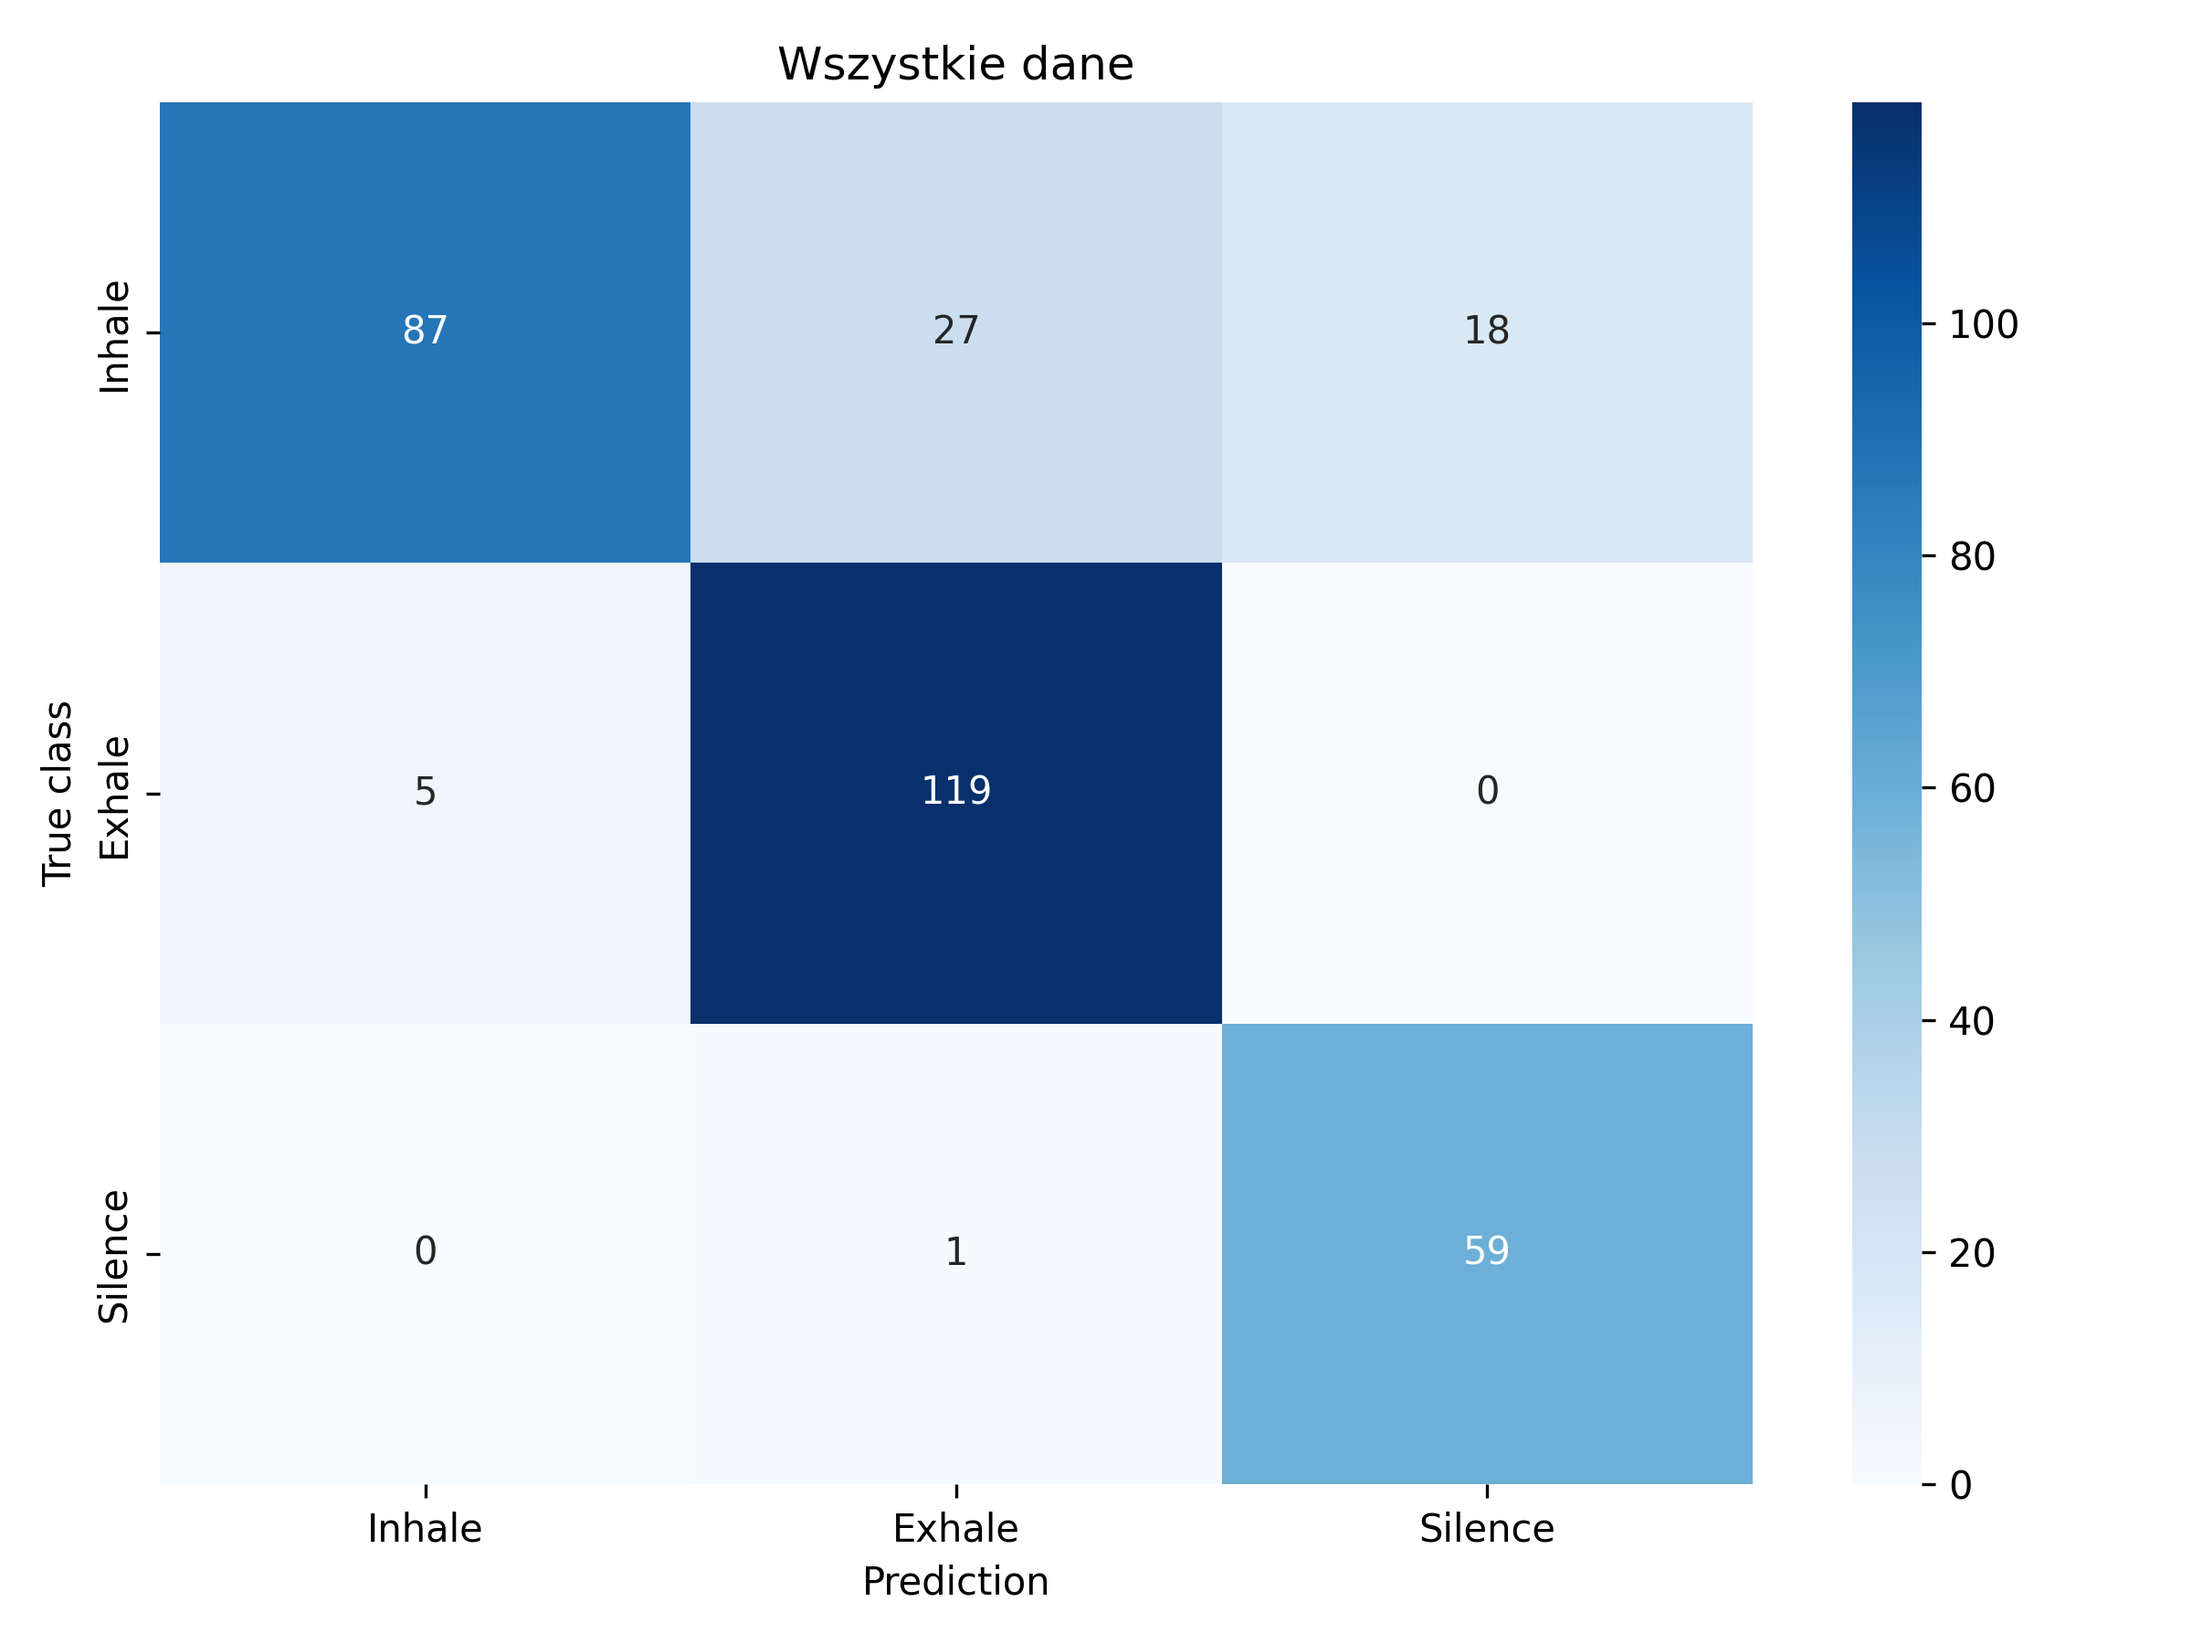
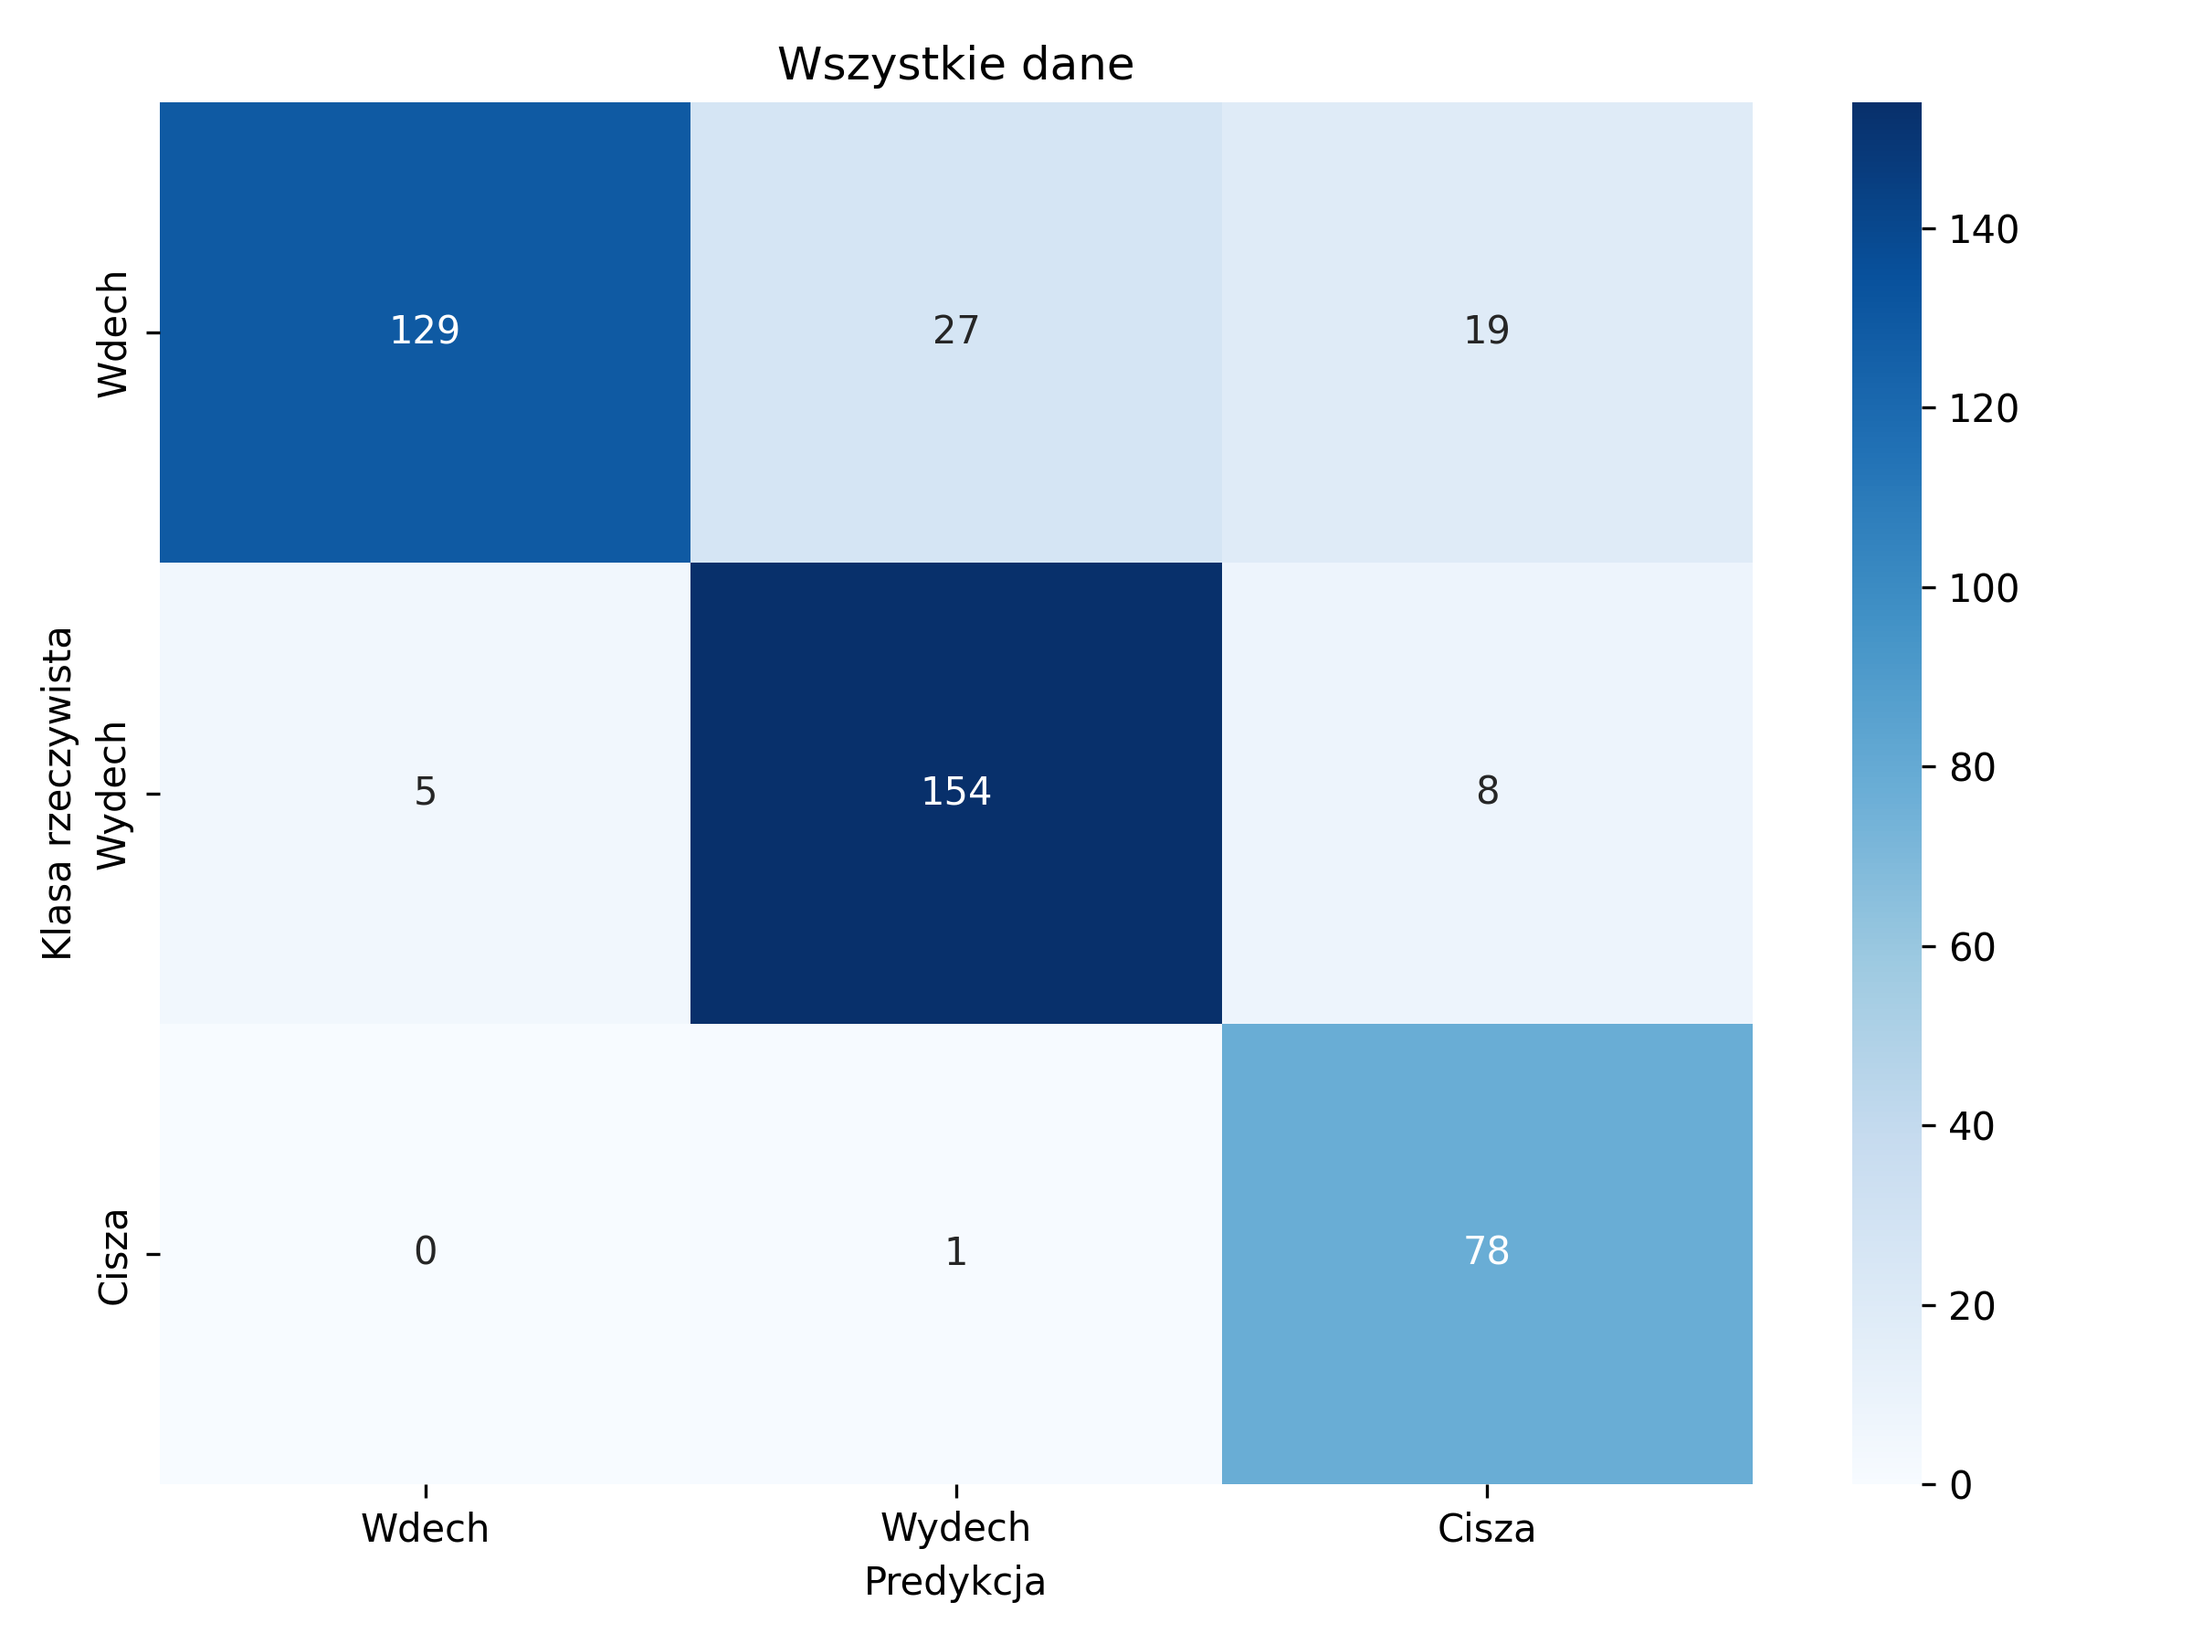
Plots and ocnfusion matrices

diff --git a/breathing_model/eval_data/statistics_plotter.py b/breathing_model/eval_data/statistics_plotter.py
@@ -1,121 +1,155 @@
 import numpy as np
 import matplotlib.pyplot as plt
 import seaborn as sns
-from sklearn.metrics import confusion_matrix
 import os
 
-
-# Define output folder for all confusion matrices
 output_folder = "confusion_matrices"
 os.makedirs(output_folder, exist_ok=True)
 
-
-# Function to create and display confusion matrix
 def plot_confusion_matrix(cm, title, labels):
     plt.figure(figsize=(8, 6))
     sns.heatmap(cm, annot=True, fmt='d', cmap='Blues', xticklabels=labels, yticklabels=labels)
     plt.title(title)
-    plt.ylabel('True class')
-    plt.xlabel('Prediction')
+    plt.ylabel('Klasa rzeczywista')
+    plt.xlabel('Predykcja')
     plt.tight_layout()
 
-    # Save to PNG in the specified folder
     filename = f"{title.replace(' ', '_').replace(',', '').lower()}.png"
     plt_filename = os.path.join(output_folder, filename)
-    plt.savefig(plt_filename, dpi=300)  # Higher resolution for better quality
-    print(f"Confusion matrix visualization saved to: {plt_filename}")
+    plt.savefig(plt_filename, dpi=300)
+    print(f"Zapisano macierz pomyłek: {plt_filename}")
 
     plt.show()
 
+def calculate_accuracy(cm):
+    return np.diag(cm).sum() / cm.sum()
 
-# Confusion matrix data (individual tests)
-# 1. Tomasz - good microphone
-y_true_tomasz_good = ['inhale'] * 15 + ['exhale'] * 15 + ['silence'] * 10
-y_pred_tomasz_good = ['inhale'] * 13 + ['exhale'] * 2 + ['exhale'] * 15 + ['silence'] * 10
-cm_tomasz_good = confusion_matrix(y_true_tomasz_good, y_pred_tomasz_good, labels=['inhale', 'exhale', 'silence'])
+labels = ['Wdech', 'Wydech', 'Cisza']
 
-# 2. Piotr - good microphone
-y_true_piotr_good = ['inhale'] * 10 + ['exhale'] * 9 + ['silence'] * 10
-y_pred_piotr_good = ['inhale'] * 10 + ['exhale'] * 9 + ['exhale'] * 1 + ['silence'] * 9
-cm_piotr_good = confusion_matrix(y_true_piotr_good, y_pred_piotr_good, labels=['inhale', 'exhale', 'silence'])
+cm_tomasz = np.array([
+    [45, 2, 1],  # Wdech: prawidłowo jako wdech, błędnie jako wydech, błędnie jako cisza
+    [0, 47, 0],    # Wydech: błędnie jako wdech, prawidłowo jako wydech, błędnie jako cisza
+    [0, 1, 23]     # Cisza: błędnie jako wdech, błędnie jako wydech, prawidłowo jako cisza
+])
 
-# 3. Tomasz - medium microphone
-y_true_tomasz_medium = ['inhale'] * (13 + 36 + 8) + ['exhale'] * (9 + 36 + 8) + ['silence'] * 15
-y_pred_tomasz_medium = ['inhale'] * (2 + 28 + 7) + ['exhale'] * (11 + 3) + ['silence'] * (0 + 5 + 1) + ['exhale'] * (
-            9 + 36 + 8) + ['silence'] * 15
-cm_tomasz_medium = confusion_matrix(y_true_tomasz_medium, y_pred_tomasz_medium, labels=['inhale', 'exhale', 'silence'])
+cm_piotr = np.array([
+    [29, 23, 5],
+    [0, 63, 0],
+    [0, 0, 31]
+])
 
-# 4. Piotr - medium microphone
-y_true_piotr_medium = ['inhale'] * (10 + 15 + 10) + ['exhale'] * (9 + 15 + 9) + ['silence'] * 15
-y_pred_piotr_medium = ['inhale'] * (7 + 15 + 2) + ['exhale'] * (3 + 0 + 8) + ['exhale'] * (9 + 15 + 9) + [
-    'silence'] * 15
-cm_piotr_medium = confusion_matrix(y_true_piotr_medium, y_pred_piotr_medium, labels=['inhale', 'exhale', 'silence'])
+cm_iwo = np.array([
+    [42, 0, 1],
+    [0, 29, 3],
+    [0, 0, 25]
+])
 
-# 5. Tomasz - poor microphone
-y_true_tomasz_bad = ['inhale'] * 15 + ['exhale'] * 14 + ['silence'] * 10
-y_pred_tomasz_bad = ['inhale'] * 3 + ['silence'] * 12 + ['inhale'] * 5 + ['exhale'] * 9 + ['silence'] * 10
-cm_tomasz_bad = confusion_matrix(y_true_tomasz_bad, y_pred_tomasz_bad, labels=['inhale', 'exhale', 'silence'])
+cm_good = np.array([
+    [23, 2, 0],
+    [0, 24, 0],
+    [0, 1, 11]
+])
 
-# Create aggregated data sets
-# All Tomasz data
-y_true_tomasz_all = y_true_tomasz_good + y_true_tomasz_medium + y_true_tomasz_bad
-y_pred_tomasz_all = y_pred_tomasz_good + y_pred_tomasz_medium + y_pred_tomasz_bad
-cm_tomasz_all = confusion_matrix(y_true_tomasz_all, y_pred_tomasz_all, labels=['inhale', 'exhale', 'silence'])
+cm_medium = np.array([
+    [103, 25, 7],
+    [0, 121, 8],
+    [0, 0, 63]
+])
 
-# All Piotr data
-y_true_piotr_all = y_true_piotr_good + y_true_piotr_medium
-y_pred_piotr_all = y_pred_piotr_good + y_pred_piotr_medium
-cm_piotr_all = confusion_matrix(y_true_piotr_all, y_pred_piotr_all, labels=['inhale', 'exhale', 'silence'])
+cm_bad = np.array([
+    [3, 0, 12],
+    [5, 9, 0],
+    [0, 0, 4]
+])
 
-# All good microphone data
-y_true_good_all = y_true_tomasz_good + y_true_piotr_good
-y_pred_good_all = y_pred_tomasz_good + y_pred_piotr_good
-cm_good_all = confusion_matrix(y_true_good_all, y_pred_good_all, labels=['inhale', 'exhale', 'silence'])
+cm_all = cm_bad + cm_medium + cm_good
 
-# All medium microphone data
-y_true_medium_all = y_true_tomasz_medium + y_true_piotr_medium
-y_pred_medium_all = y_pred_tomasz_medium + y_pred_piotr_medium
-cm_medium_all = confusion_matrix(y_true_medium_all, y_pred_medium_all, labels=['inhale', 'exhale', 'silence'])
+matrices = [
+    (cm_tomasz, "Wszystkie dane Tomasz"),
+    (cm_piotr, "Wszystkie dane Piotr"),
+    (cm_iwo, "Wszystkie dane Iwo"),
+    (cm_good, "Wszystkie dobre mikrofony"),
+    (cm_medium, "Wszystkie średnie mikrofony"),
+    (cm_bad, "Wszystkie słabe mikrofony"),
+    (cm_all, "Wszystkie dane")
+]
+print(f"Zapisywanie macierzy konfuzji do folderu: {output_folder}")
 
-# All bad microphone data (only Tomasz data available)
-cm_bad_all = cm_tomasz_bad  # Since we only have Tomasz's bad microphone data
+for cm, title in matrices:
+    plot_confusion_matrix(cm, title, labels)
+    accuracy = calculate_accuracy(cm)
+    print(f"Dokładność ({title}): {accuracy:.2%}")
 
-# All data combined
-y_true_all = y_true_tomasz_all + y_true_piotr_all
-y_pred_all = y_pred_tomasz_all + y_pred_piotr_all
-cm_all = confusion_matrix(y_true_all, y_pred_all, labels=['inhale', 'exhale', 'silence'])
 
-# Generating and saving confusion matrices
-labels = ['Inhale', 'Exhale', 'Silence']
 
-print(f"Saving all confusion matrices to folder: {output_folder}")
+cykle_model_tomasz = 24 + 15 + 8
+cykle_tomasz = 24 + 15 + 8
+cykle_model_piotr = 27 + 35 + 13
+cykle_piotr = 17 + 36 + 9
+cykle_model_iwo = 6 + 11 + 6 + 5 + 9
+cykle_iwo = 6 + 12 + 7 + 8 + 9
+cykle_model_good = 24
+cykle_good = 24
+cykle_model_medium = 27 + 35 + 15 + 8 + 13 + 6 + 11 + 6 + 5 + 9
+cykle_medium = 17 + 36 + 15 + 8 + 9 + 6 + 12 + 7 + 8 + 9
+cykle_model_bad = 12
+cykle_bad = 14
+cykle_model_all = cykle_model_bad + cykle_model_medium + cykle_model_good
+cykle_all = cykle_bad + cykle_medium + cykle_good
 
-# Save individual matrices
-plot_confusion_matrix(cm_tomasz_good, "Tomasz dobry mikrofon", labels)
-plot_confusion_matrix(cm_piotr_good, "Piotr dobry mikrofon", labels)
-plot_confusion_matrix(cm_tomasz_medium, "Tomasz średni mikrofon", labels)
-plot_confusion_matrix(cm_piotr_medium, "Piotr średni mikrofon", labels)
-plot_confusion_matrix(cm_tomasz_bad, "Tomasz słaby mikrofon", labels)
+# Print breathing cycle statistics
+print("======= BREATHING CYCLE STATISTICS =======")
 
-# Save aggregated matrices
-plot_confusion_matrix(cm_tomasz_all, "Wszystkie dane Tomasza", labels)
-plot_confusion_matrix(cm_piotr_all, "Wszystkie dane Piotra", labels)
-plot_confusion_matrix(cm_good_all, "Wszystkie dobre mikrofony", labels)
-plot_confusion_matrix(cm_medium_all, "Wszystkie średnie mikrofony", labels)
-plot_confusion_matrix(cm_bad_all, "Wszystkie słabe mikrofony", labels)
-plot_confusion_matrix(cm_all, "Wszystkie dane", labels)
+def calculate_difference(model_cycles, actual_cycles):
+    if actual_cycles == 0:
+        return 0  # Avoid division by zero
+    return ((model_cycles - actual_cycles) / actual_cycles) * 100
 
-# Calculating accuracy for aggregated matrices
-accuracy_tomasz_all = np.diag(cm_tomasz_all).sum() / cm_tomasz_all.sum()
-accuracy_piotr_all = np.diag(cm_piotr_all).sum() / cm_piotr_all.sum()
-accuracy_good_all = np.diag(cm_good_all).sum() / cm_good_all.sum()
-accuracy_medium_all = np.diag(cm_medium_all).sum() / cm_medium_all.sum()
-accuracy_bad_all = np.diag(cm_bad_all).sum() / cm_bad_all.sum()
-accuracy_all = np.diag(cm_all).sum() / cm_all.sum()
+# Tomasz statistics
+print("\n=== TOMASZ ===")
+print(f"Actual breathing cycles: {cykle_tomasz}")
+print(f"Model breathing cycles: {cykle_model_tomasz}")
+diff_tomasz = calculate_difference(cykle_model_tomasz, cykle_tomasz)
+print(f"Percentage difference: {diff_tomasz:.2f}%")
 
-print(f"Accuracy (All Tomasz data): {accuracy_tomasz_all:.2%}")
-print(f"Accuracy (All Piotr data): {accuracy_piotr_all:.2%}")
-print(f"Accuracy (All good microphone data): {accuracy_good_all:.2%}")
-print(f"Accuracy (All medium microphone data): {accuracy_medium_all:.2%}")
-print(f"Accuracy (All bad microphone data): {accuracy_bad_all:.2%}")
-print(f"Accuracy (All data): {accuracy_all:.2%}")
+# Piotr statistics
+print("\n=== PIOTR ===")
+print(f"Actual breathing cycles: {cykle_piotr}")
+print(f"Model breathing cycles: {cykle_model_piotr}")
+diff_piotr = calculate_difference(cykle_model_piotr, cykle_piotr)
+print(f"Percentage difference: {diff_piotr:.2f}%")
+
+# Iwo statistics
+print("\n=== IWO ===")
+print(f"Actual breathing cycles: {cykle_iwo}")
+print(f"Model breathing cycles: {cykle_model_iwo}")
+diff_iwo = calculate_difference(cykle_model_iwo, cykle_iwo)
+print(f"Percentage difference: {diff_iwo:.2f}%")
+
+# Good microphones statistics
+print("\n=== GOOD MICROPHONES ===")
+print(f"Actual breathing cycles: {cykle_good}")
+print(f"Model breathing cycles: {cykle_model_good}")
+diff_good = calculate_difference(cykle_model_good, cykle_good)
+print(f"Percentage difference: {diff_good:.2f}%")
+
+# Medium microphones statistics
+print("\n=== MEDIUM MICROPHONES ===")
+print(f"Actual breathing cycles: {cykle_medium}")
+print(f"Model breathing cycles: {cykle_model_medium}")
+diff_medium = calculate_difference(cykle_model_medium, cykle_medium)
+print(f"Percentage difference: {diff_medium:.2f}%")
+
+# Bad microphones statistics
+print("\n=== POOR MICROPHONES ===")
+print(f"Actual breathing cycles: {cykle_bad}")
+print(f"Model breathing cycles: {cykle_model_bad}")
+diff_bad = calculate_difference(cykle_model_bad, cykle_bad)
+print(f"Percentage difference: {diff_bad:.2f}%")
+
+# All data statistics
+print("\n=== ALL DATA ===")
+print(f"Actual breathing cycles: {cykle_all}")
+print(f"Model breathing cycles: {cykle_model_all}")
+diff_all = calculate_difference(cykle_model_all, cykle_all)
+print(f"Percentage difference: {diff_all:.2f}%")
